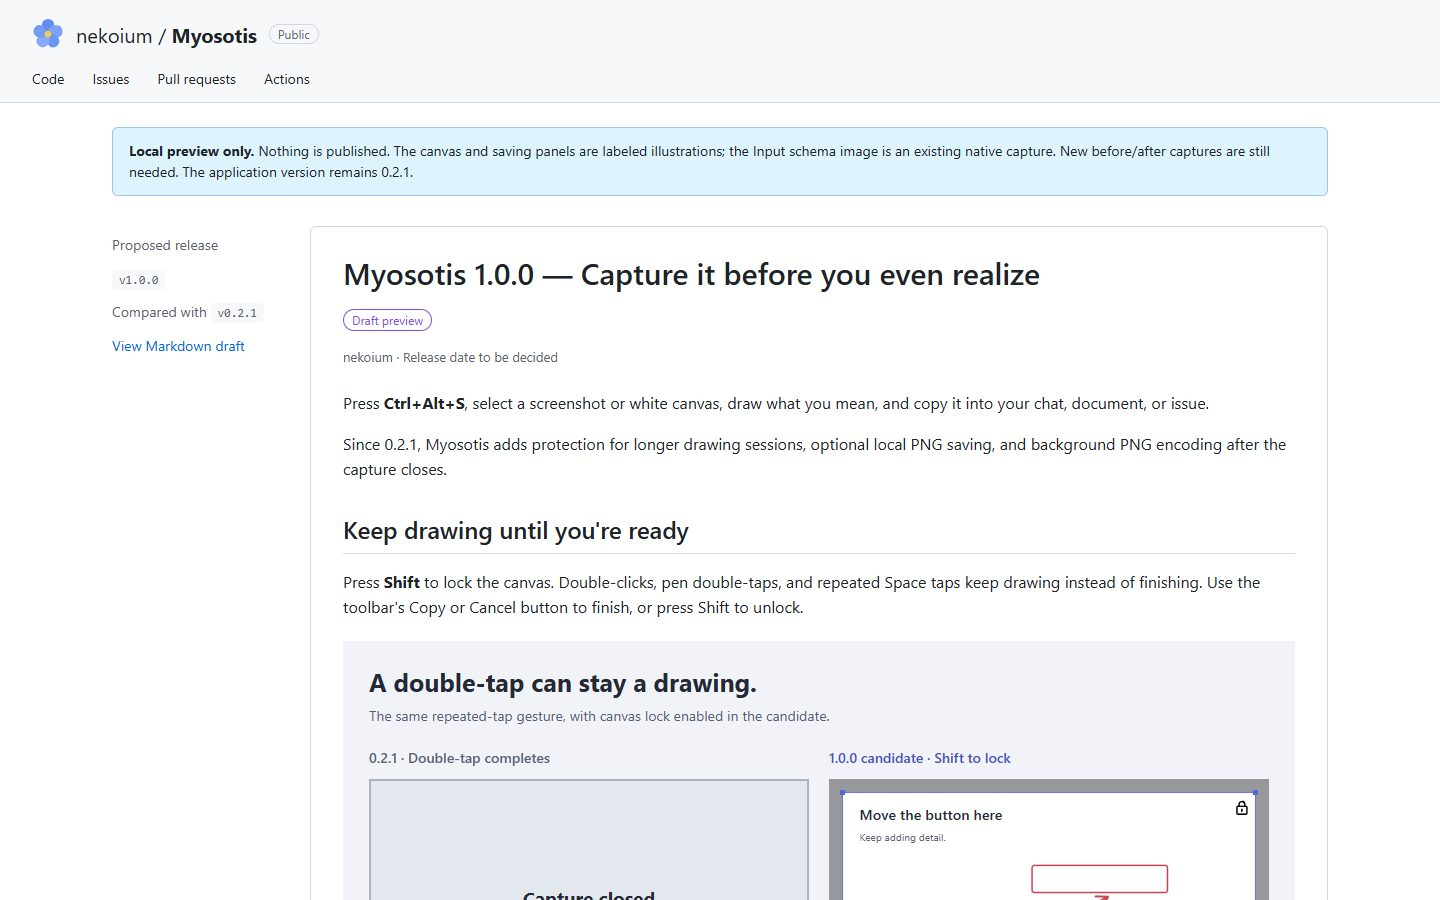
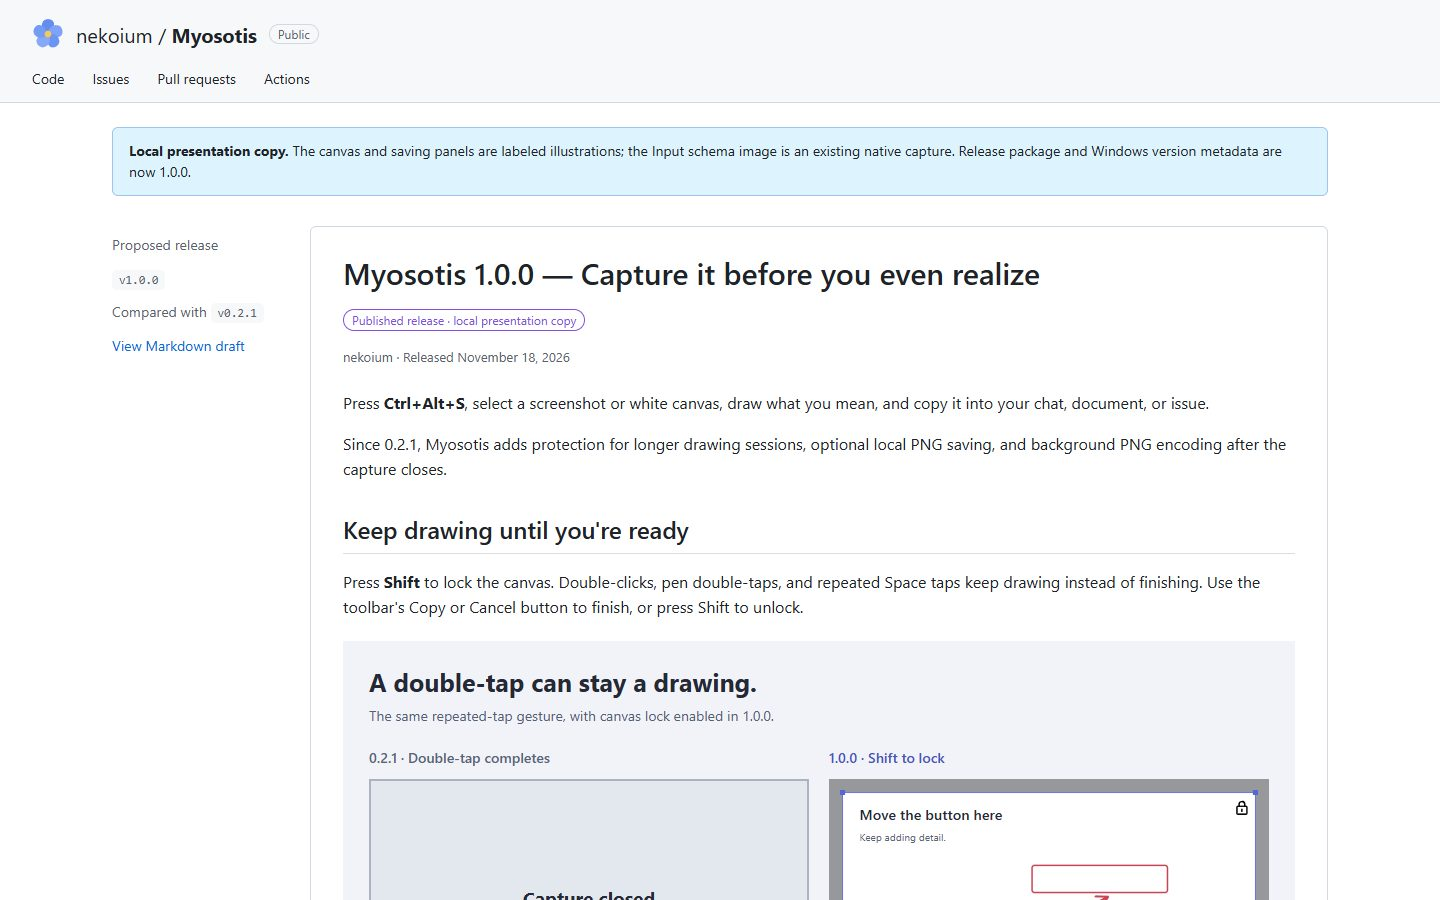
Update Scoop to published 1.0.0 and record verification

diff --git a/docs/releases/1.0.0/preview.html b/docs/releases/1.0.0/preview.html
@@ -6,7 +6,7 @@
 <header class="top"><div class="repo"><img src="../../../assets/myosotis.svg" alt="Myosotis flower"><span>nekoium / <strong>Myosotis</strong></span><span class="public">Public</span></div><nav aria-label="Repository"><span>Code</span><span>Issues</span><span>Pull requests</span><span>Actions</span></nav></header>
 <div class="notice"><strong>Local presentation copy.</strong> The canvas and saving panels are labeled illustrations; the Input schema image is an existing native capture. Release package and Windows version metadata are now 1.0.0.</div>
 <main class="layout"><aside class="meta"><p>Proposed release</p><p><code>v1.0.0</code></p><p>Compared with <code>v0.2.1</code></p><p><a href="RELEASE-NOTES.md">View Markdown draft</a></p></aside>
-<article class="release"><h1>Myosotis 1.0.0 — Capture it before you even realize</h1><span class="draft">Draft preview</span><div class="byline">nekoium · Release date to be decided</div>
+<article class="release"><h1>Myosotis 1.0.0 — Capture it before you even realize</h1><span class="draft">Published release · local presentation copy</span><div class="byline">nekoium · Released November 18, 2026</div>
 <p>Press <strong>Ctrl+Alt+S</strong>, select a screenshot or white canvas, draw what you mean, and copy it into your chat, document, or issue.</p><p>Since 0.2.1, Myosotis adds protection for longer drawing sessions, optional local PNG saving, and background PNG encoding after the capture closes.</p>
 <h2>Keep drawing until you're ready</h2><p>Press <strong>Shift</strong> to lock the canvas. Double-clicks, pen double-taps, and repeated Space taps keep drawing instead of finishing. Use the toolbar's Copy or Cancel button to finish, or press Shift to unlock.</p>
 <figure><div class="showcase"><h3>A double-tap can stay a drawing.</h3><p class="sub">The same repeated-tap gesture, with canvas lock enabled in 1.0.0.</p><div class="pair"><div><div class="label">0.2.1 · Double-tap completes</div><div class="scene closed" style="aspect-ratio:520/340"><strong>Capture closed</strong><p>The completion gesture copies<br>the current image.</p></div><p class="result">Reopen a capture to keep sketching.</p></div><div><div class="label after">1.0.0 · Shift to lock</div><img src="canvas-lock-illustration.svg" alt="Illustrated locked canvas with actual Myosotis toolbar geometry and icons, selection handles, black lock, coral marks, and locked guidance" style="display:block;width:100%;height:auto"><p class="result">Keep drawing. Finish with toolbar Copy.</p></div></div></div><figcaption>Illustrated before/after storyboard using the app's rendering geometry and vector icons.</figcaption></figure>
@@ -19,5 +19,5 @@
 <h2>Small refinements, shown up close</h2><p>A simpler tray menu, easier shortcut-window interaction, and small alignment improvements round out the release.</p>
 <figure><div class="showcase"><div class="refine"><img src="../../images/input-schema-light.png" alt="Existing native Input schema screenshot, used as visual reference"><div><h3>Controls close at hand.</h3><ul><li>Drag Input schema from non-control areas.</li><li>Dismiss with Escape outside recording, or switch windows.</li><li>Subtle transitions respect Windows' animation preference.</li><li>Refined header alignment, icon sizing, and single-digit numbered marks.</li></ul></div></div></div><figcaption>Native Input schema screenshot from the 0.2.1 documentation, shown as an interface reference.</figcaption></figure>
 <h2>Download and update</h2><p><strong>Windows 11 x64 · Portable · No additional runtime required</strong></p><p>Quit the older Myosotis from its notification-area menu, extract the release ZIP, and run <code>Myosotis/myosotis.exe</code>.</p><p>If you use <strong>Start at login</strong>, turn it off before moving or deleting the previous portable copy, then enable it from the new executable's location.</p>
-<details class="assets" open><summary>Assets</summary><div class="asset-empty">No 1.0.0 release package has been prepared or attached. ZIP and checksum will appear here after packaging is separately authorized.</div></details>
-</article></main><footer class="foot">Myosotis · Local release presentation preview · No tag or GitHub release created</footer></body></html>
+<details class="assets" open><summary>Assets</summary><div class="asset-empty"><a href="https://github.com/nekoium/Myosotis/releases/download/v1.0.0/Myosotis-1.0.0-windows-x64.zip">Myosotis-1.0.0-windows-x64.zip</a> · 429,294 bytes<br><a href="https://github.com/nekoium/Myosotis/releases/download/v1.0.0/Myosotis-1.0.0-windows-x64.zip.sha256">SHA-256 checksum</a></div></details>
+</article></main><footer class="foot">Myosotis · <a href="https://github.com/nekoium/Myosotis/releases/tag/v1.0.0">Published 1.0.0 release</a> · Local presentation copy</footer></body></html>

diff --git a/docs/releases/1.0.0/PUBLICATION.md b/docs/releases/1.0.0/PUBLICATION.md
@@ -1,0 +1,26 @@
+# Myosotis 1.0.0 publication
+
+Published: November 18, 2026, 07:52:19 UTC.
+
+Release: https://github.com/nekoium/Myosotis/releases/tag/v1.0.0
+
+Title: **Myosotis 1.0.0 — Capture it before you even realize**.
+
+Tag: `v1.0.0`, targeting source commit `1173e601a6b56e4f822294056cbeb4a81f91e9f9`. This includes README refresh `f14a112` and the approved release illustrations.
+
+## Downloads
+
+- ZIP: https://github.com/nekoium/Myosotis/releases/download/v1.0.0/Myosotis-1.0.0-windows-x64.zip
+- Checksum: https://github.com/nekoium/Myosotis/releases/download/v1.0.0/Myosotis-1.0.0-windows-x64.zip.sha256
+
[1 lines of base64/hex data omitted]
+
+ZIP size: **429,294 bytes**. Extracted size: **797,388 bytes**. Cargo package, Windows FileVersion, and ProductVersion: **1.0.0**.
+
+The published ZIP and checksum were downloaded again using GitHub CLI. Their hash matched both the local build and GitHub's asset digest. All four version-tagged PNG links in the published notes returned HTTP 200 with image/png content type. GitHub reports the release as published, not draft or prerelease. The remote annotated tag resolves to the intended source commit.
+
+The Scoop manifest is updated after publication to use this verified ZIP and hash. No WinGet or Chocolatey availability is claimed. The separate WinGet session owns catalog follow-up.
+
+The local preview is retained as a presentation copy, with links to the actual downloads. The tag's version of that preview reflects its preparation stage; public release notes use the finalized Markdown and four tagged PNGs.
+
+No native/desktop automation was performed. The user had manually accepted the combined candidate; this preparation validated metadata, routine tests, package contents and actual downloads. See VALIDATION.md for details and limits.
